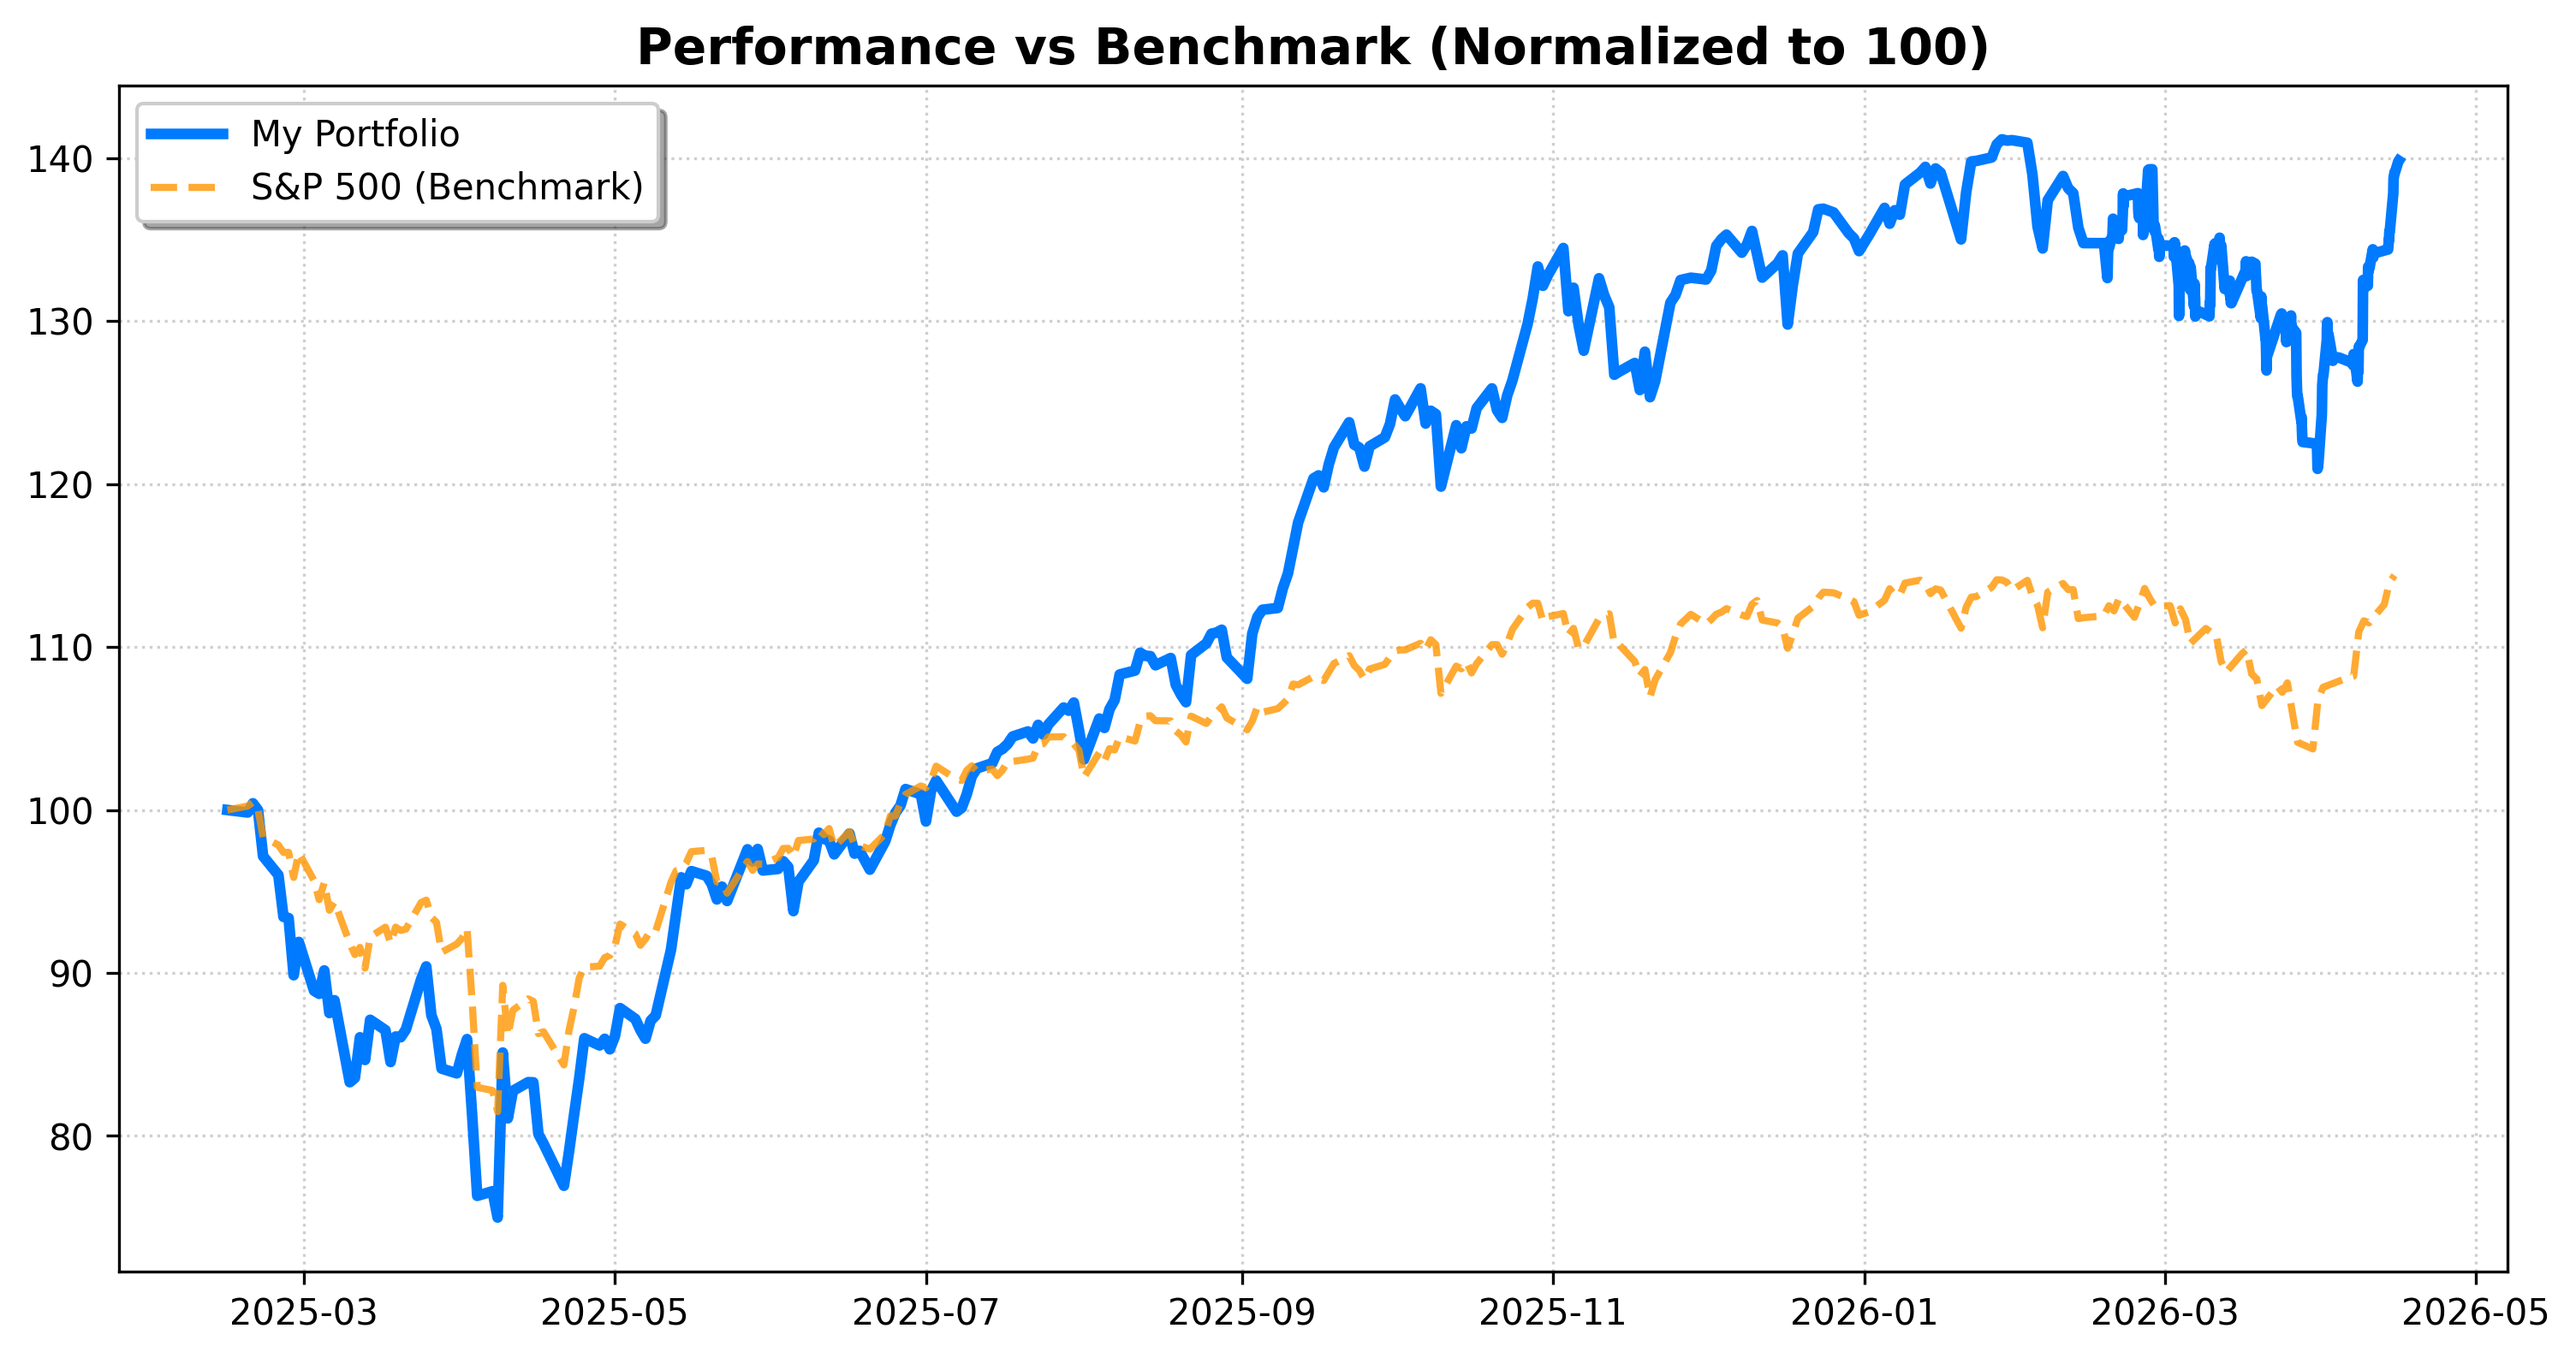
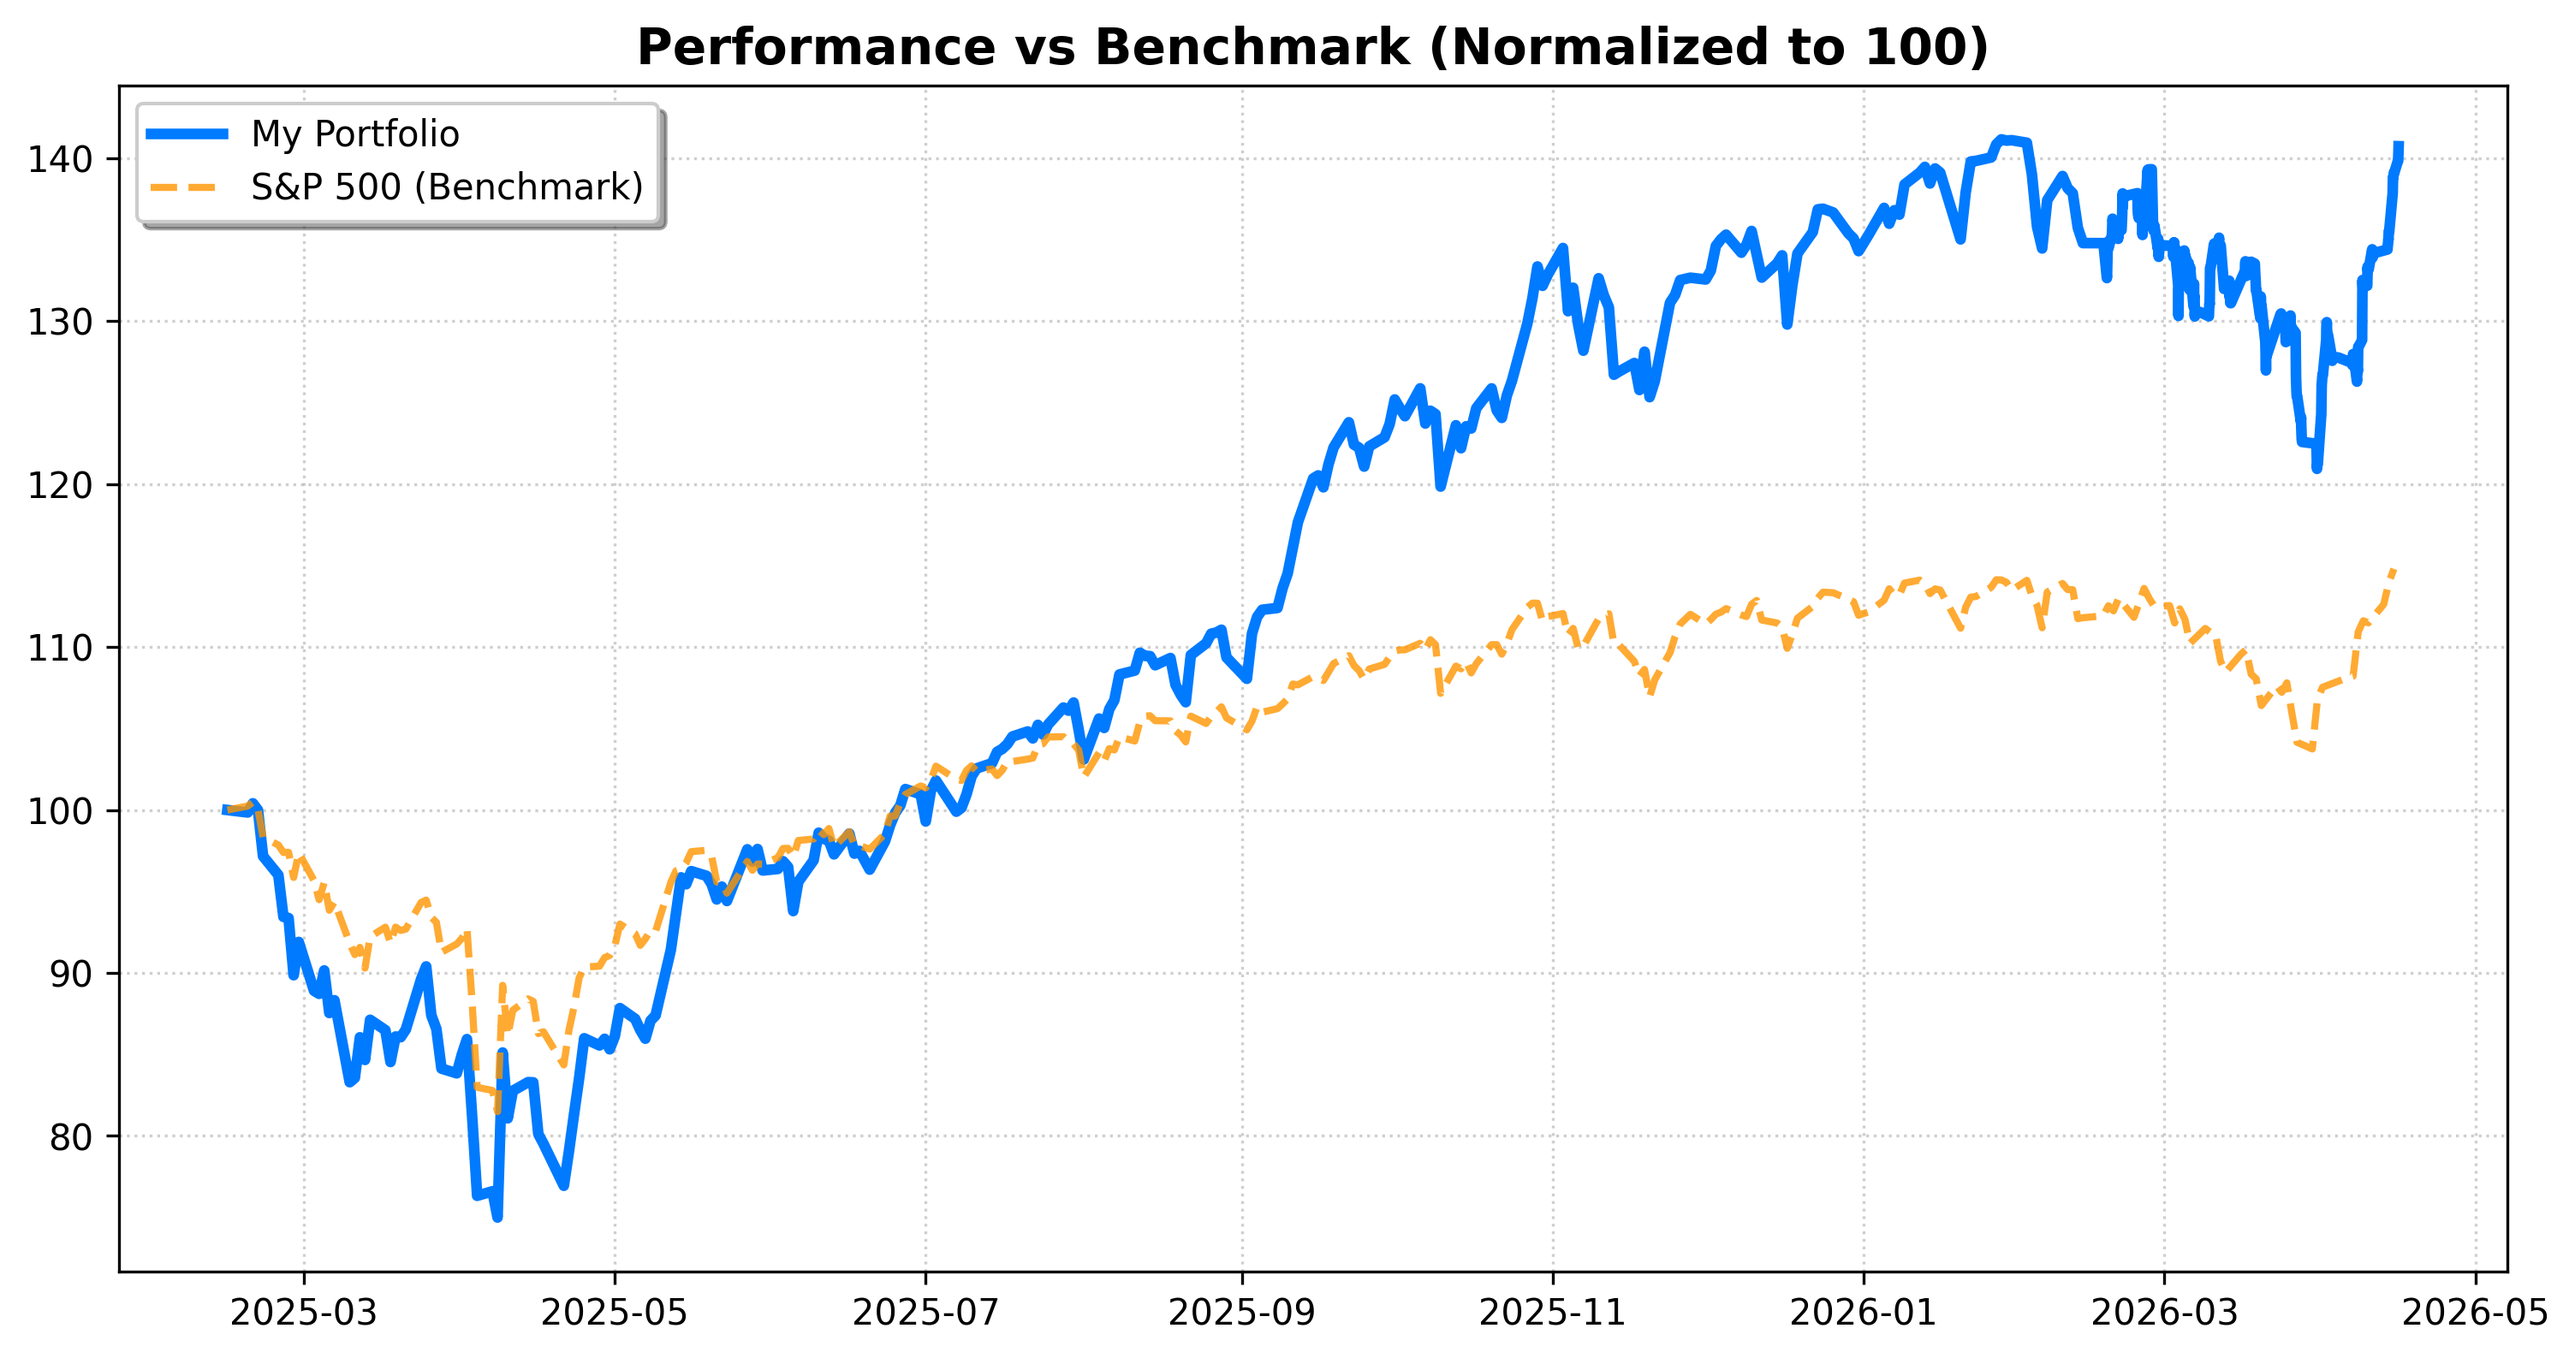
System Run: Analytics & Archive Update [skip ci]

Changed region(s): [[0.9375, 0.9572, 0.9688, 0.988], [0.8125, 0.9572, 0.8438, 0.988]]

diff --git a/README.md b/README.md
@@ -1,23 +1,23 @@
 # 📊 Portfolio Dashboard | מעקב תיק השקעות
-**Last Update:** 15/04/2026 20:12 | **USD/ILS:** ₪2.993
+**Last Update:** 15/04/2026 22:20 | **USD/ILS:** ₪2.992
 
 ## 💰 Portfolio Summary | סיכום התיק
 | Metric | Value | נתון |
 | :--- | :--- | :--- |
-| **Current Value** | `₪168,988` | **שווי נוכחי** |
-| **Total Invested** | `₪128,335` | **סך השקעה** |
-| **Total Profit/Loss** | `+31.68%` (₪40,653) | **רווח/הפסד כולל** |
-| **Daily Change** | `+0.76%` | **שינוי יומי** |
+| **Current Value** | `₪169,986` | **שווי נוכחי** |
+| **Total Invested** | `₪128,275` | **סך השקעה** |
+| **Total Profit/Loss** | `+32.52%` (₪41,711) | **רווח/הפסד כולל** |
+| **Daily Change** | `+1.40%` | **שינוי יומי** |
 
 ## 📜 Holdings | פירוט החזקות
 | Ticker | Shares | Avg. Cost | Current Price | P&L % | P&L ILS |
 | :--- | :--- | :--- | :--- | :--- | :--- |
-| GOOGL | 48 | $187.99 | $334.48 | 🟢 +77.92% | ₪21,049 |
-| ASML | 4 | $934.51 | $1,427.71 | 🟢 +52.78% | ₪5,906 |
-| XOM | 2 | $126.08 | $149.70 | 🟢 +18.73% | ₪141 |
-| NVDA | 57 | $148.62 | $197.26 | 🟢 +32.73% | ₪8,299 |
-| TSLA | 20 | $436.45 | $388.05 | 🔴 -11.09% | ₪-2,898 |
-| VOO | 24 | $527.38 | $640.90 | 🟢 +21.53% | ₪8,156 |
+| GOOGL | 48 | $187.99 | $335.87 | 🟢 +78.66% | ₪21,239 |
+| ASML | 4 | $934.51 | $1,462.35 | 🟢 +56.48% | ₪6,317 |
+| XOM | 2 | $126.08 | $149.56 | 🟢 +18.62% | ₪141 |
+| NVDA | 57 | $148.62 | $197.81 | 🟢 +33.10% | ₪8,389 |
+| TSLA | 20 | $436.45 | $391.58 | 🔴 -10.28% | ₪-2,685 |
+| VOO | 24 | $527.38 | $643.11 | 🟢 +21.94% | ₪8,311 |
 
 ## 📈 Charts | גרפים
 ![Performance](./data_hub/portfolio_performance.png)
